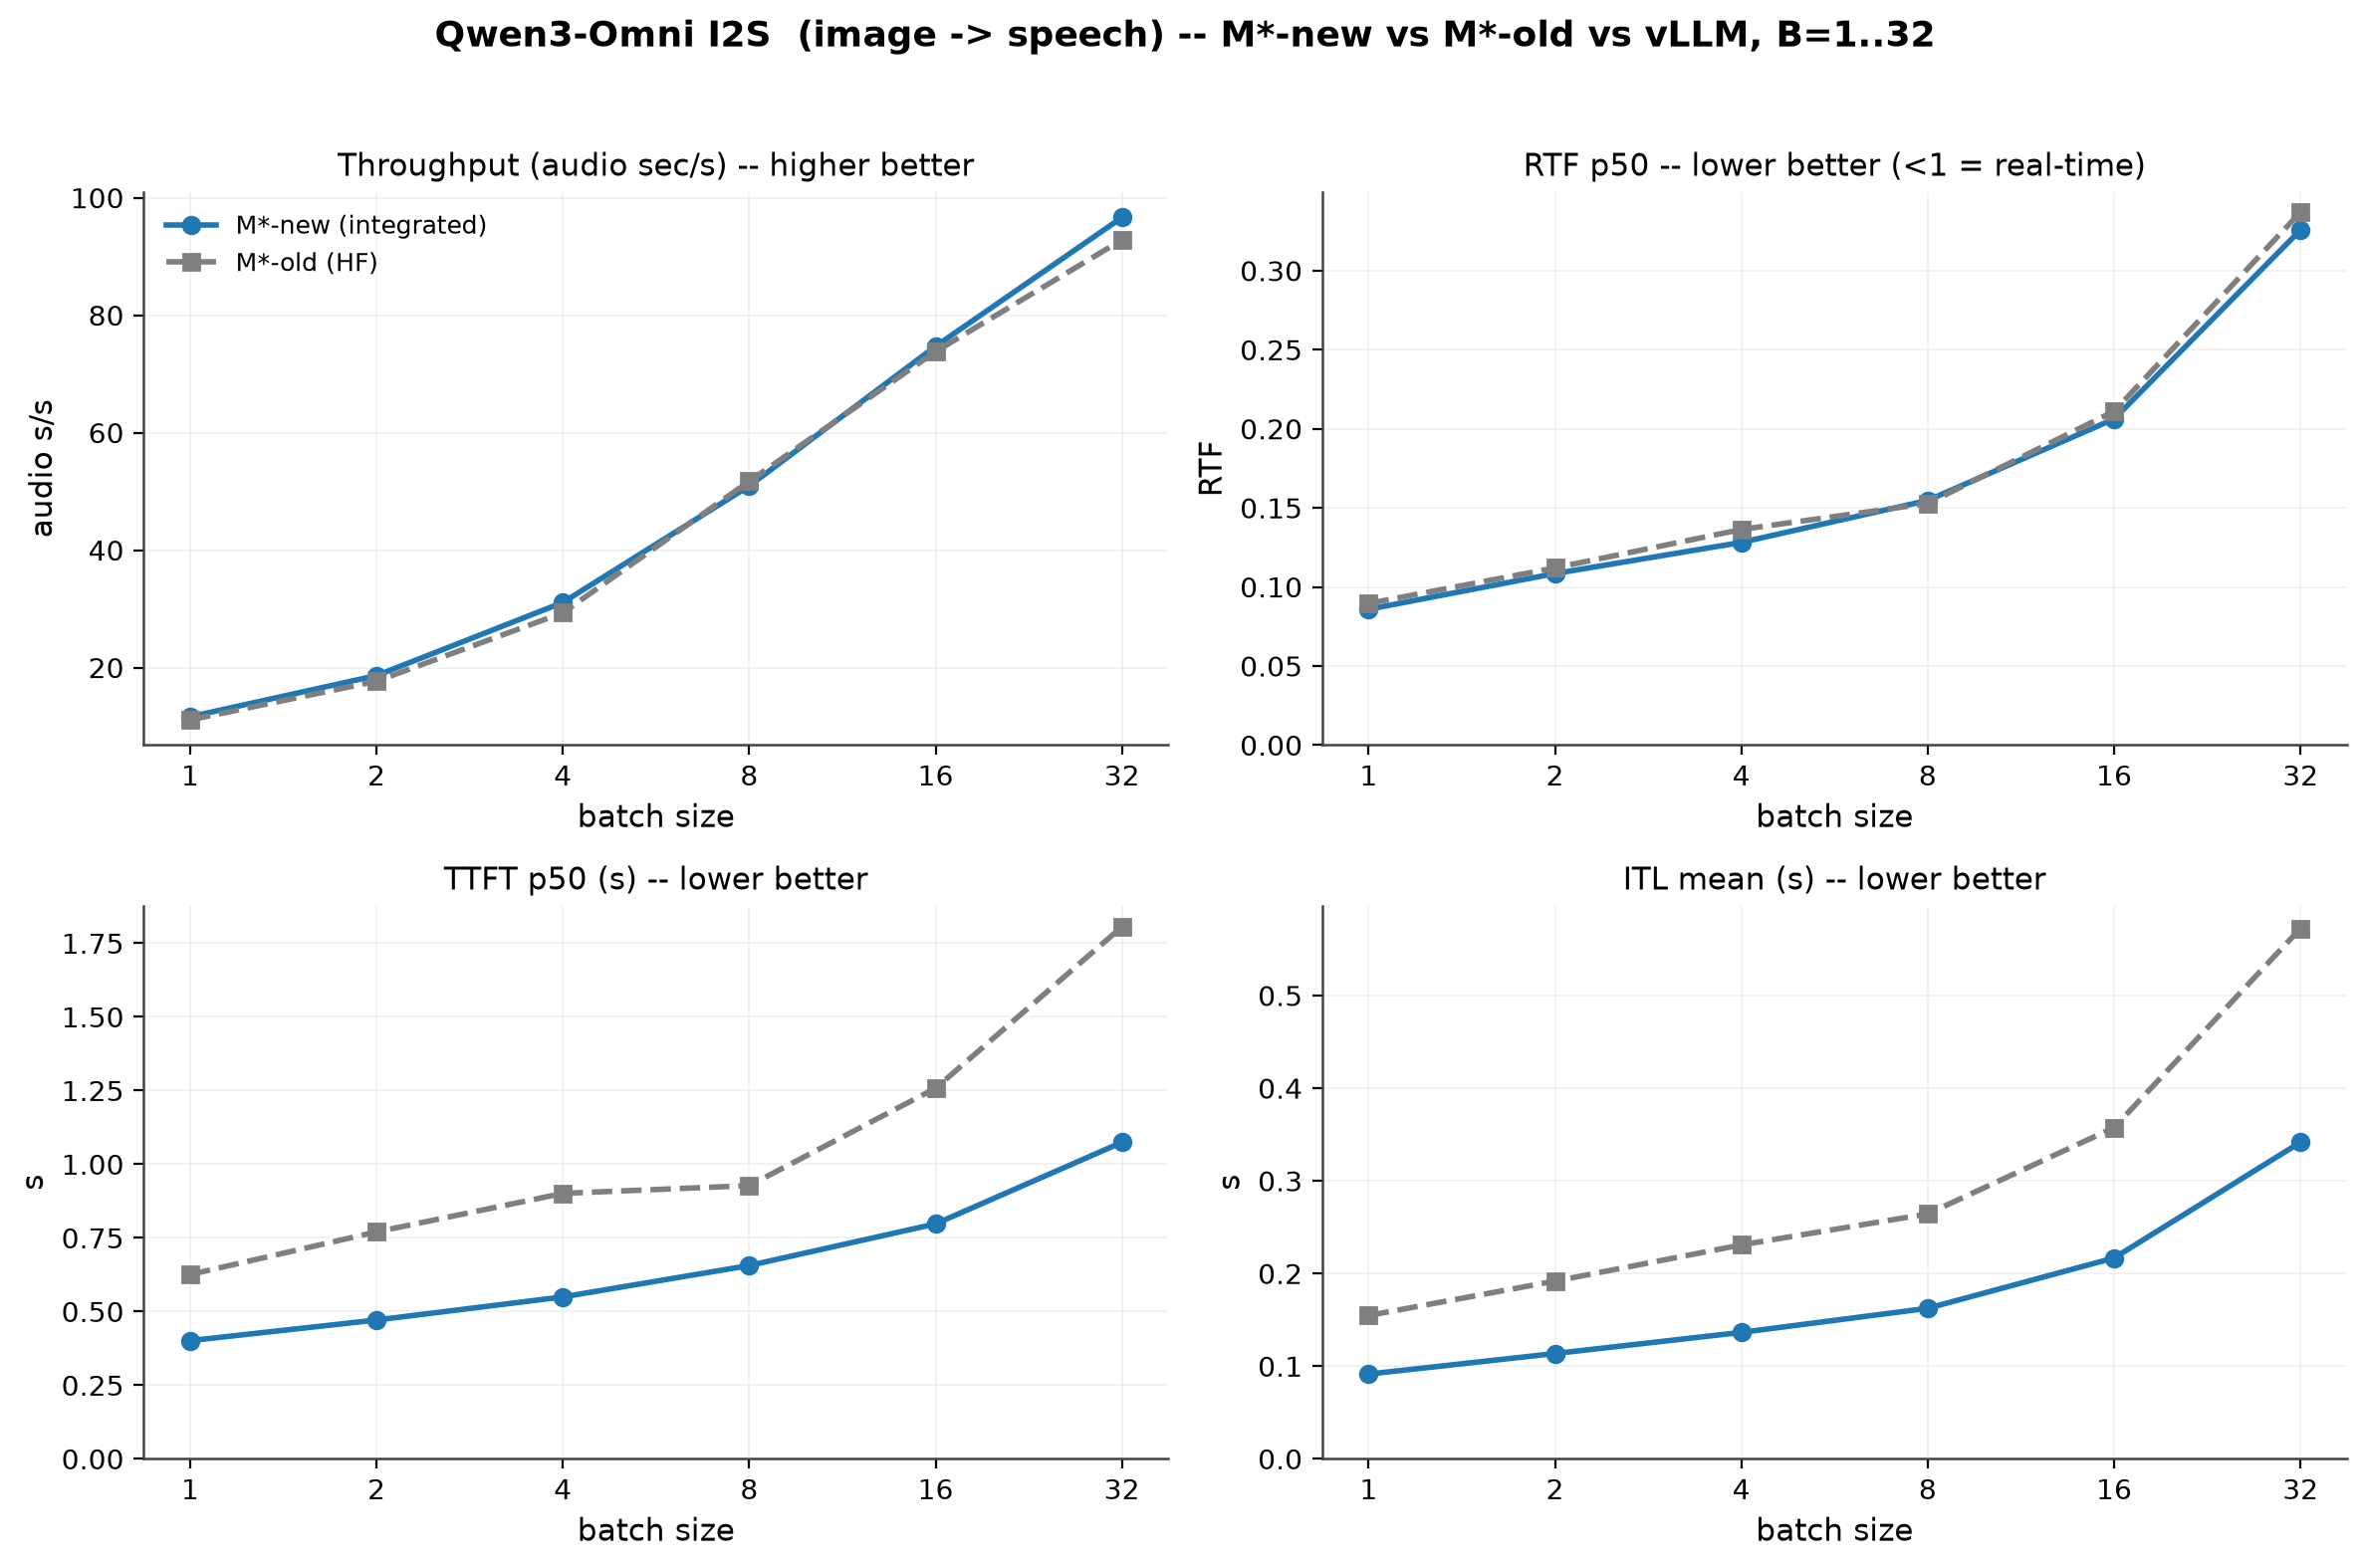
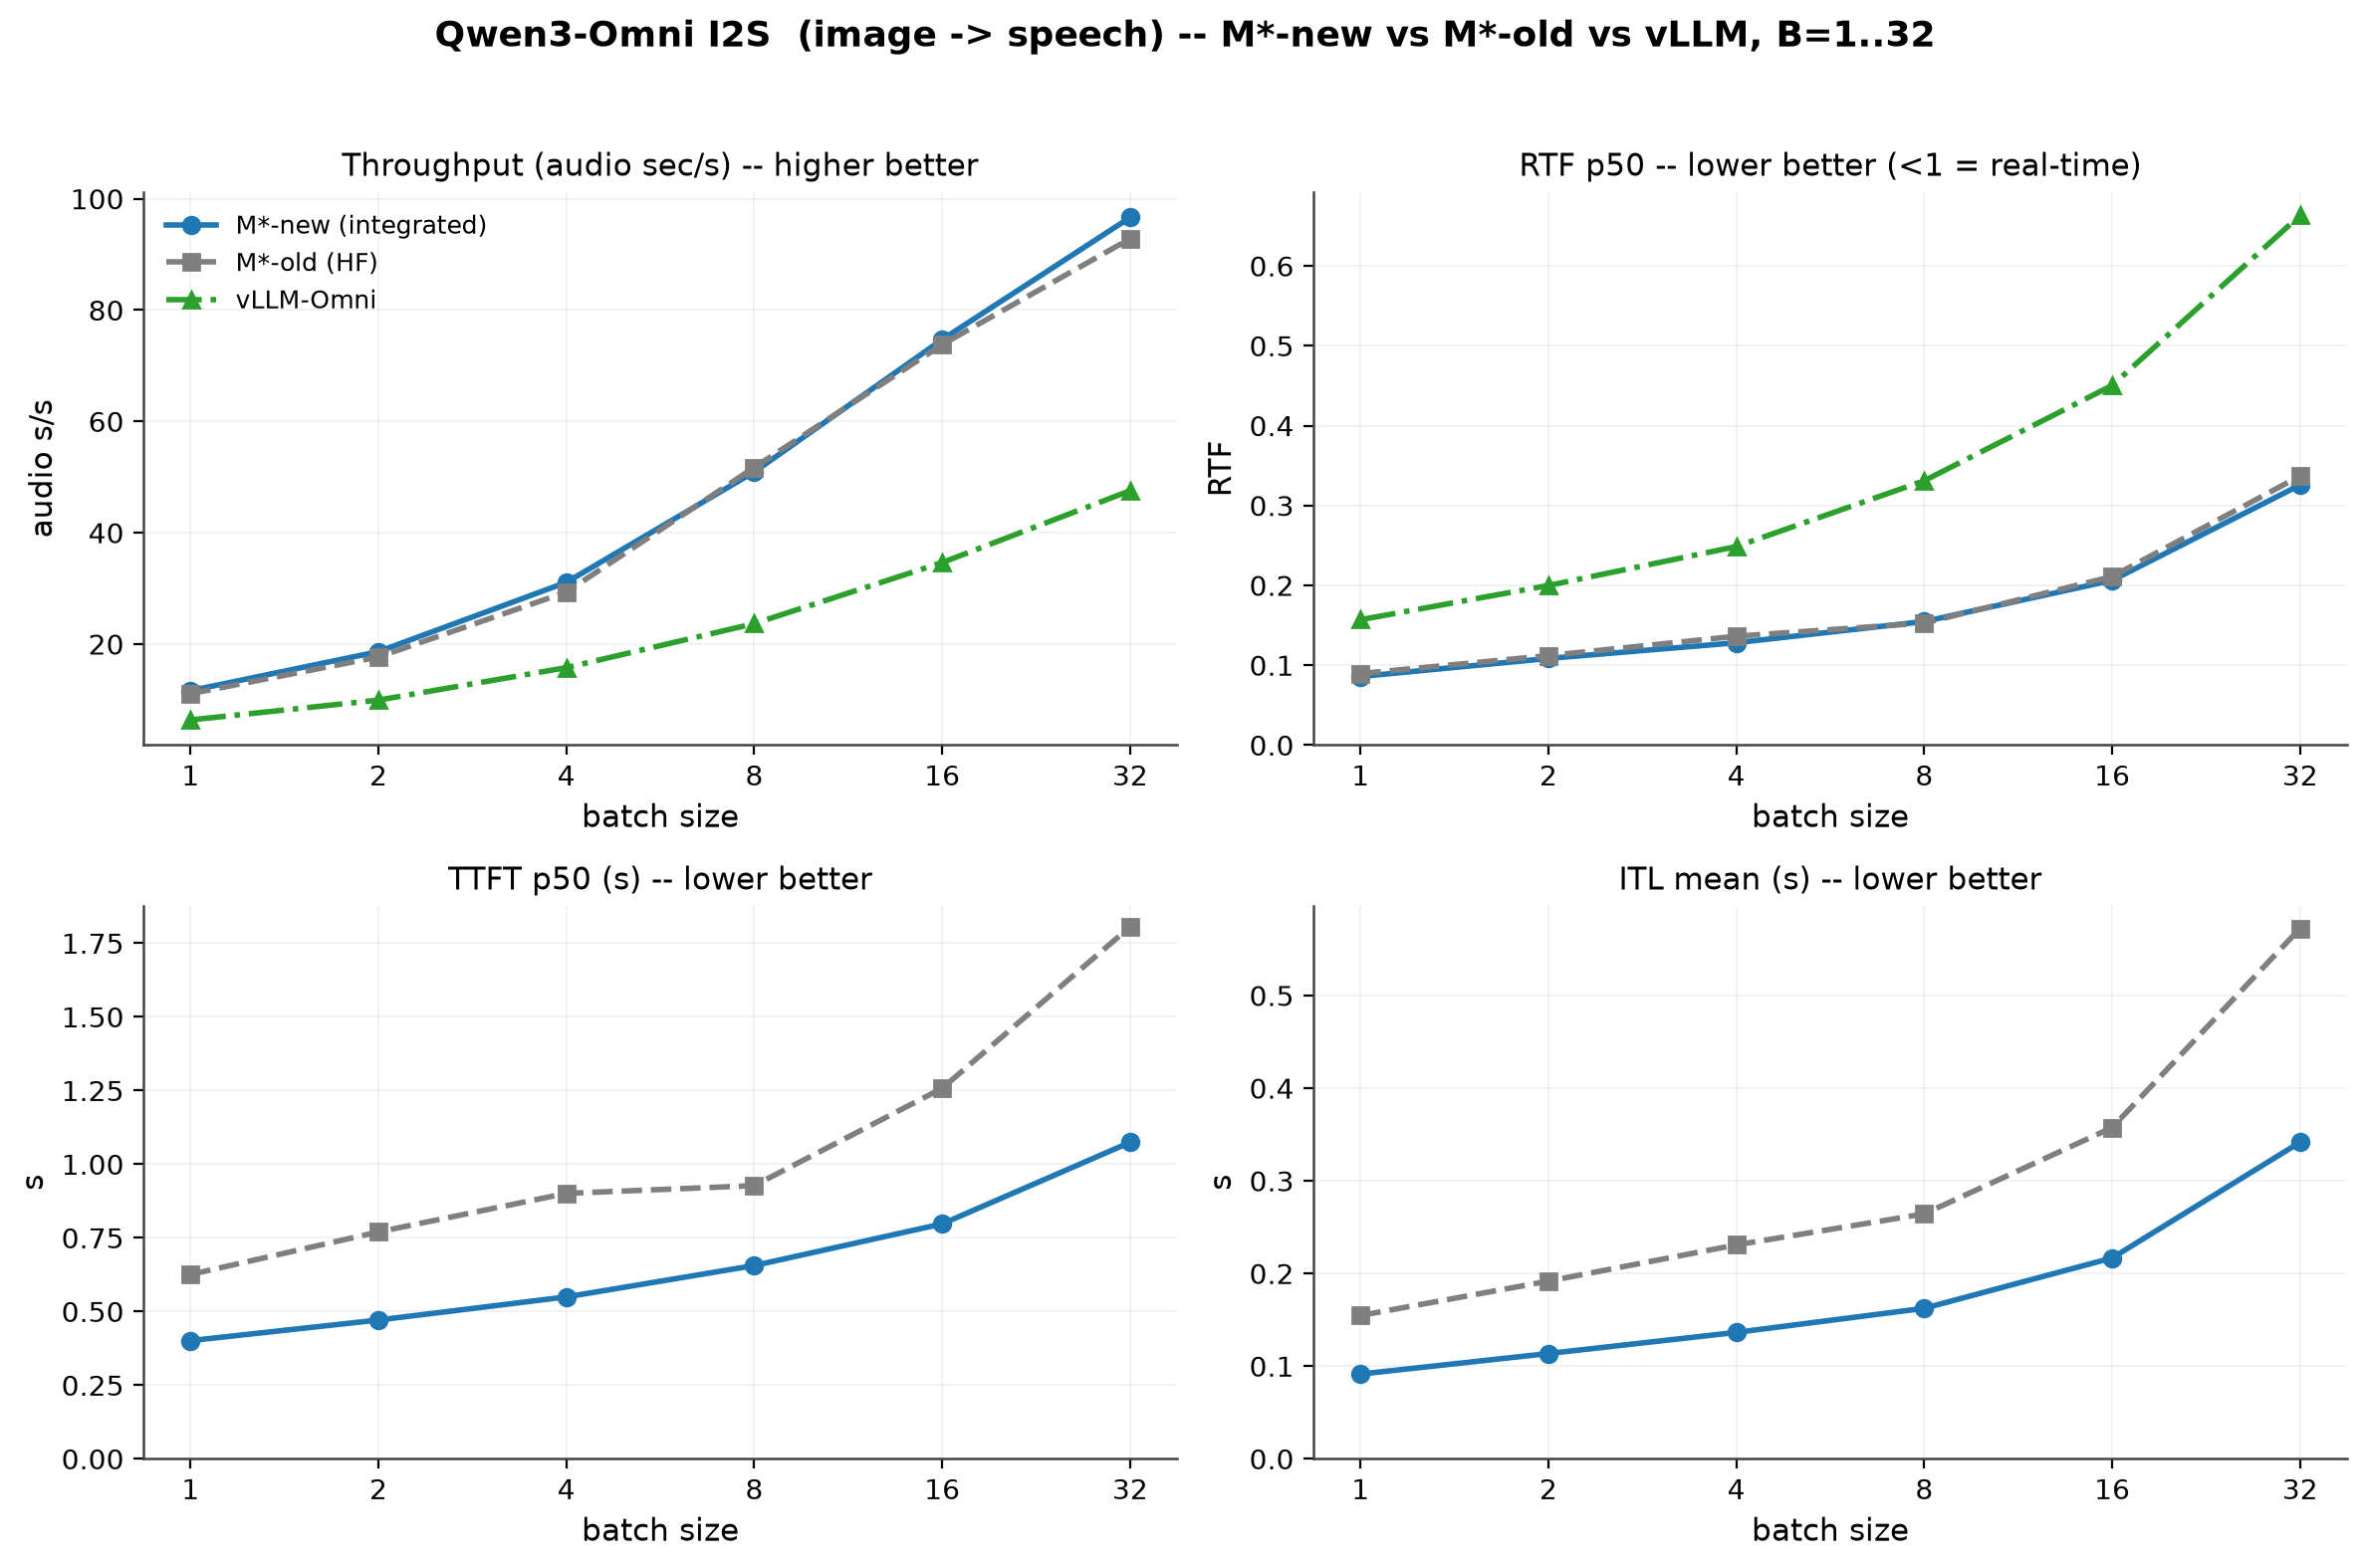
bench(qwen3-omni): derive vLLM audio metrics + fix runner CWD
ingest_sweep.py: compute audio_throughput and RTF from per-request
output_bytes when top-level aggregates are absent (old runner didn't
persist them). S2S/I2S charts now show vLLM trendlines.

sweep_vllm.sh: cd to BENCHMARK_CODE before running benchmark.runner
so Python loads the current runner (not a stale copy from the CWD's
benchmark/ directory — the PYTHONPATH trap).

Claude-Session: https://claude.ai/code/session_01UYwpkha1NsSxjFxcGaWVDT

diff --git a/benchmarks/qwen3-omni-joint/ingest_sweep.py b/benchmarks/qwen3-omni-joint/ingest_sweep.py
@@ -30,6 +30,30 @@ def load_or_init(fp):
             "datapoints": [], "aggregates": {}}
 
 
+PCM_BYTES_PER_SEC = 48000  # 16-bit 24 kHz mono
+
+
+def _derive_audio_from_per_request(res):
+    """Compute audio_throughput and RTF from per_request when top-level aggregates are absent."""
+    per_req = res.get("per_request", [])
+    wall = res.get("wall_time_s", 0)
+    if not per_req or wall <= 0:
+        return None, None
+    durations, rtfs = [], []
+    for p in per_req:
+        ab = p.get("output_bytes", {}).get("audio", 0)
+        if ab <= 0:
+            continue
+        dur = ab / PCM_BYTES_PER_SEC
+        durations.append(dur)
+        jct_s = p.get("jct_ms", 0) / 1000.0
+        if jct_s > 0 and dur > 0:
+            rtfs.append(jct_s / dur)
+    audio_tp = sum(durations) / wall if durations else None
+    rtf_p50 = sorted(rtfs)[len(rtfs) // 2] if rtfs else None
+    return audio_tp, rtf_p50
+
+
 def build_aggregates(res):
     """Build the recomputed + harness aggregate dicts from a results.json."""
     rec = {}
@@ -39,6 +63,13 @@ def build_aggregates(res):
     rec["text_token_throughput"] = res.get("text_token_throughput")
     rec["audio_throughput"] = res.get("audio_seconds_throughput")
     rec["rtf_p50"] = res.get("rtf", {}).get("p50") if isinstance(res.get("rtf"), dict) else None
+
+    if rec["audio_throughput"] is None or rec["rtf_p50"] is None:
+        derived_tp, derived_rtf = _derive_audio_from_per_request(res)
+        if rec["audio_throughput"] is None:
+            rec["audio_throughput"] = derived_tp
+        if rec["rtf_p50"] is None:
+            rec["rtf_p50"] = derived_rtf
 
     for domain in ["text", "audio"]:
         ttft_src = res.get("ttft", {}).get(domain)

diff --git a/benchmarks/qwen3-omni-joint/NUMBERS.md b/benchmarks/qwen3-omni-joint/NUMBERS.md
@@ -70,34 +70,34 @@ throughput unit = **audio s/s**; req/s / RTF p50 / TTFT(audio) p50 / ITL(audio) 
 
 | B | metric | M*-new | M*-old | vLLM | new/vLLM | new/old |
 |---|---|---|---|---|---|---|
-| 1 | audio_s_per_s | 11.6260 | 11.0862 | — | — | 1.05x |
+| 1 | audio_s_per_s | 11.6260 | 11.0862 | 6.3668 | 1.83x | 1.05x |
 | 1 | req_per_s | 0.2767 | 0.2354 | 0.1019 | 2.72x | 1.18x |
-| 1 | RTF_p50 | 0.0859 | 0.0895 | — | — | 1.04x |
+| 1 | RTF_p50 | 0.0859 | 0.0895 | 0.1569 | 1.83x | 1.04x |
 | 1 | TTFT_p50 | 0.4012 | 0.6255 | — | — | 1.56x |
 | 1 | ITL_mean | 0.0914 | 0.1547 | — | — | 1.69x |
-| 2 | audio_s_per_s | 18.6390 | 17.6750 | — | — | 1.05x |
+| 2 | audio_s_per_s | 18.6390 | 17.6750 | 9.9293 | 1.88x | 1.05x |
 | 2 | req_per_s | 0.4577 | 0.3933 | 0.1569 | 2.92x | 1.16x |
-| 2 | RTF_p50 | 0.1085 | 0.1120 | — | — | 1.03x |
+| 2 | RTF_p50 | 0.1085 | 0.1120 | 0.1998 | 1.84x | 1.03x |
 | 2 | TTFT_p50 | 0.4710 | 0.7701 | — | — | 1.63x |
 | 2 | ITL_mean | 0.1136 | 0.1918 | — | — | 1.69x |
-| 4 | audio_s_per_s | 31.0878 | 29.3348 | — | — | 1.06x |
+| 4 | audio_s_per_s | 31.0878 | 29.3348 | 15.7621 | 1.97x | 1.06x |
 | 4 | req_per_s | 0.7348 | 0.6438 | 0.2509 | 2.93x | 1.14x |
-| 4 | RTF_p50 | 0.1281 | 0.1363 | — | — | 1.06x |
+| 4 | RTF_p50 | 0.1281 | 0.1363 | 0.2486 | 1.94x | 1.06x |
 | 4 | TTFT_p50 | 0.5494 | 0.9008 | — | — | 1.64x |
 | 4 | ITL_mean | 0.1364 | 0.2309 | — | — | 1.69x |
-| 8 | audio_s_per_s | 50.9289 | 51.7271 | — | — | 0.98x |
+| 8 | audio_s_per_s | 50.9289 | 51.7271 | 23.6749 | 2.15x | 0.98x |
 | 8 | req_per_s | 1.1465 | 1.1077 | 0.3872 | 2.96x | 1.03x |
-| 8 | RTF_p50 | 0.1547 | 0.1528 | — | — | 0.99x |
+| 8 | RTF_p50 | 0.1547 | 0.1528 | 0.3310 | 2.14x | 0.99x |
 | 8 | TTFT_p50 | 0.6560 | 0.9272 | — | — | 1.41x |
 | 8 | ITL_mean | 0.1624 | 0.2643 | — | — | 1.63x |
-| 16 | audio_s_per_s | 74.7090 | 73.8076 | — | — | 1.01x |
+| 16 | audio_s_per_s | 74.7090 | 73.8076 | 34.6423 | 2.16x | 1.01x |
 | 16 | req_per_s | 1.7234 | 1.6011 | 0.5546 | 3.11x | 1.08x |
-| 16 | RTF_p50 | 0.2062 | 0.2111 | — | — | 1.02x |
+| 16 | RTF_p50 | 0.2062 | 0.2111 | 0.4503 | 2.18x | 1.02x |
 | 16 | TTFT_p50 | 0.7974 | 1.2577 | — | — | 1.58x |
 | 16 | ITL_mean | 0.2168 | 0.3575 | — | — | 1.65x |
-| 32 | audio_s_per_s | 96.6406 | 92.8256 | — | — | 1.04x |
+| 32 | audio_s_per_s | 96.6406 | 92.8256 | 47.5547 | 2.03x | 1.04x |
 | 32 | req_per_s | 2.2184 | 2.0164 | 0.7580 | 2.93x | 1.10x |
-| 32 | RTF_p50 | 0.3257 | 0.3370 | — | — | 1.03x |
+| 32 | RTF_p50 | 0.3257 | 0.3370 | 0.6633 | 2.04x | 1.03x |
 | 32 | TTFT_p50 | 1.0741 | 1.8056 | — | — | 1.68x |
 | 32 | ITL_mean | 0.3416 | 0.5724 | — | — | 1.68x |
 
@@ -109,34 +109,34 @@ throughput unit = **audio s/s**; req/s / RTF p50 / TTFT(audio) p50 / ITL(audio) 
 
 | B | metric | M*-new | M*-old | vLLM | new/vLLM | new/old |
 |---|---|---|---|---|---|---|
-| 1 | audio_s_per_s | 8.6080 | 4.9562 | — | — | 1.74x |
+| 1 | audio_s_per_s | 8.6080 | 4.9562 | 5.5766 | 1.54x | 1.74x |
 | 1 | req_per_s | 2.6982 | 1.5652 | 0.7923 | 3.41x | 1.72x |
-| 1 | RTF_p50 | 0.1187 | 0.2057 | — | — | 1.73x |
+| 1 | RTF_p50 | 0.1187 | 0.2057 | 0.1913 | 1.61x | 1.73x |
 | 1 | TTFT_p50 | 0.2263 | 0.5361 | — | — | 2.37x |
 | 1 | ITL_mean | 0.0660 | 0.0821 | — | — | 1.24x |
-| 2 | audio_s_per_s | 12.8717 | 8.2943 | — | — | 1.55x |
+| 2 | audio_s_per_s | 12.8717 | 8.2943 | 8.7922 | 1.46x | 1.55x |
 | 2 | req_per_s | 4.3900 | 2.5551 | 1.2641 | 3.47x | 1.72x |
-| 2 | RTF_p50 | 0.1569 | 0.2424 | — | — | 1.55x |
+| 2 | RTF_p50 | 0.1569 | 0.2424 | 0.2407 | 1.53x | 1.55x |
 | 2 | TTFT_p50 | 0.3027 | 0.6528 | — | — | 2.16x |
 | 2 | ITL_mean | 0.0818 | 0.0964 | — | — | 1.18x |
-| 4 | audio_s_per_s | 18.7206 | 12.9614 | — | — | 1.44x |
+| 4 | audio_s_per_s | 18.7206 | 12.9614 | 13.8271 | 1.35x | 1.44x |
 | 4 | req_per_s | 6.1992 | 3.9065 | 2.0099 | 3.08x | 1.59x |
-| 4 | RTF_p50 | 0.2125 | 0.3189 | — | — | 1.50x |
+| 4 | RTF_p50 | 0.2125 | 0.3189 | 0.3050 | 1.44x | 1.50x |
 | 4 | TTFT_p50 | 0.4219 | 0.9165 | — | — | 2.17x |
 | 4 | ITL_mean | 0.1049 | 0.0972 | — | — | 0.93x |
-| 8 | audio_s_per_s | 29.7882 | 13.0475 | — | — | 2.28x |
+| 8 | audio_s_per_s | 29.7882 | 13.0475 | 19.7648 | 1.51x | 2.28x |
 | 8 | req_per_s | 9.5928 | 2.6352 | 2.9488 | 3.25x | 3.64x |
-| 8 | RTF_p50 | 0.2778 | 0.5617 | — | — | 2.02x |
+| 8 | RTF_p50 | 0.2778 | 0.5617 | 0.4080 | 1.47x | 2.02x |
 | 8 | TTFT_p50 | 0.5624 | 1.6566 | — | — | 2.95x |
 | 8 | ITL_mean | 0.1302 | 0.1146 | — | — | 0.88x |
-| 16 | audio_s_per_s | 39.0256 | 12.6797 | — | — | 3.08x |
+| 16 | audio_s_per_s | 39.0256 | 12.6797 | 24.6108 | 1.59x | 3.08x |
 | 16 | req_per_s | 12.7143 | 4.3136 | 3.7176 | 3.42x | 2.95x |
-| 16 | RTF_p50 | 0.3852 | 1.1862 | — | — | 3.08x |
+| 16 | RTF_p50 | 0.3852 | 1.1862 | 0.5474 | 1.42x | 3.08x |
 | 16 | TTFT_p50 | 0.8311 | 3.2502 | — | — | 3.91x |
 | 16 | ITL_mean | 0.1511 | 0.0602 | — | — | 0.40x |
-| 32 | audio_s_per_s | 50.6445 | 15.7416 | — | — | 3.22x |
+| 32 | audio_s_per_s | 50.6445 | 15.7416 | 33.1054 | 1.53x | 3.22x |
 | 32 | req_per_s | 16.9429 | 4.2023 | 4.9431 | 3.43x | 4.03x |
-| 32 | RTF_p50 | 0.6380 | 2.3271 | — | — | 3.65x |
+| 32 | RTF_p50 | 0.6380 | 2.3271 | 0.7758 | 1.22x | 3.65x |
 | 32 | TTFT_p50 | 1.3656 | 6.5702 | — | — | 4.81x |
 | 32 | ITL_mean | 0.2608 | 0.1702 | — | — | 0.65x |
 